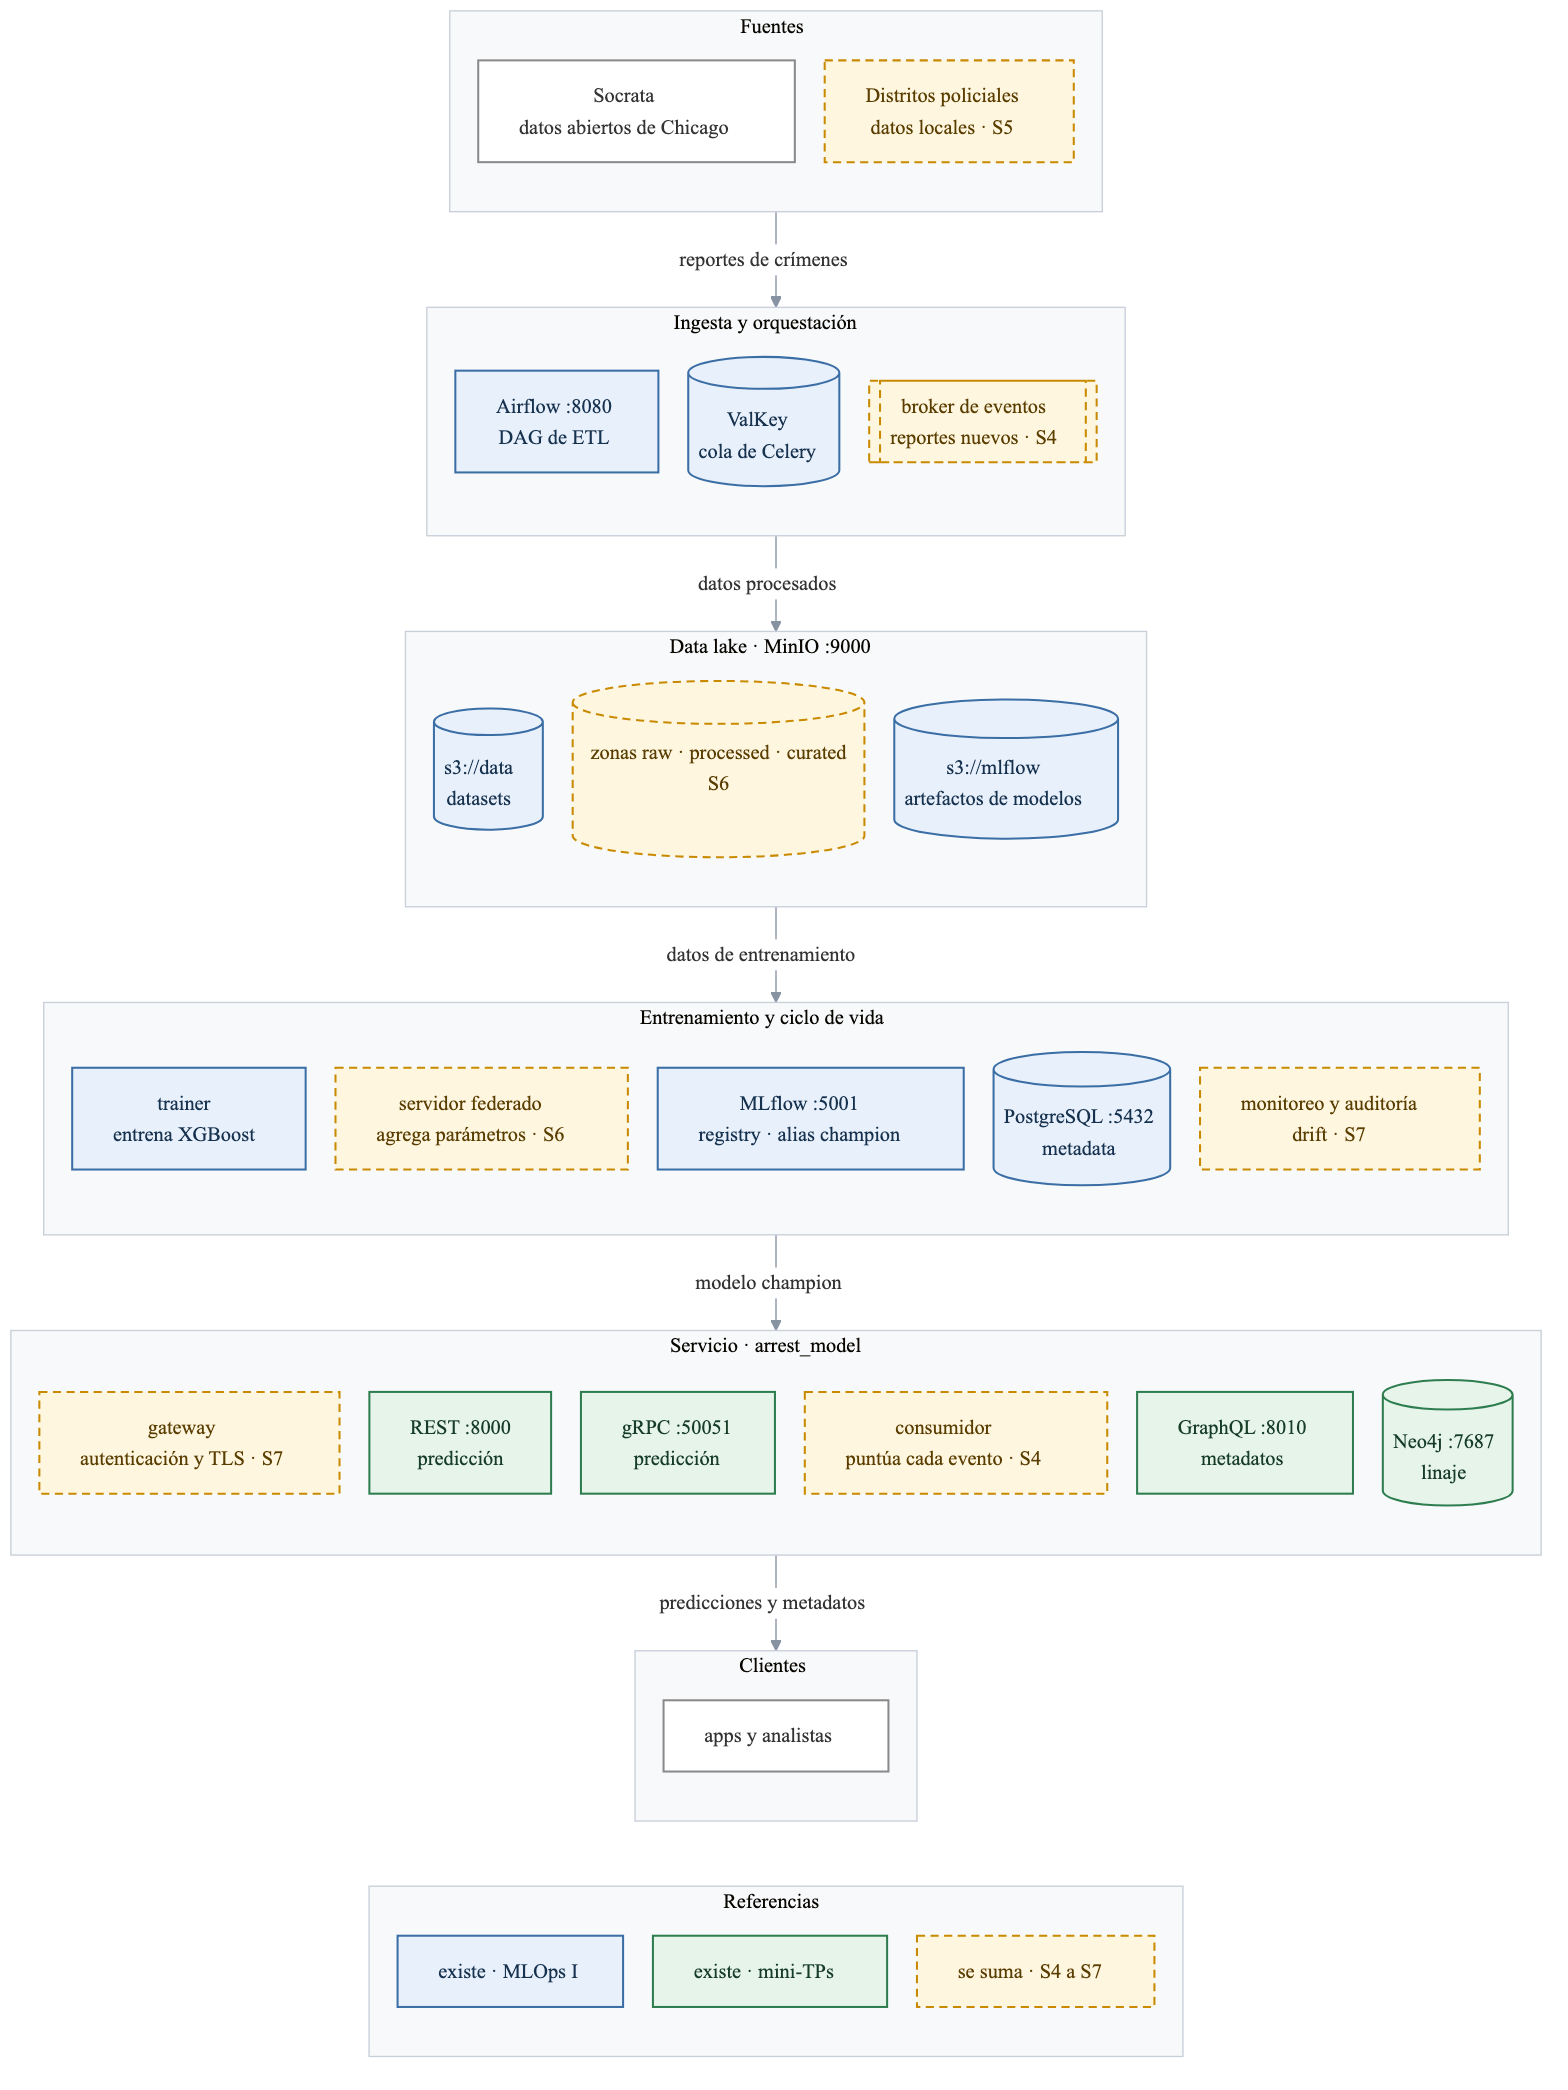
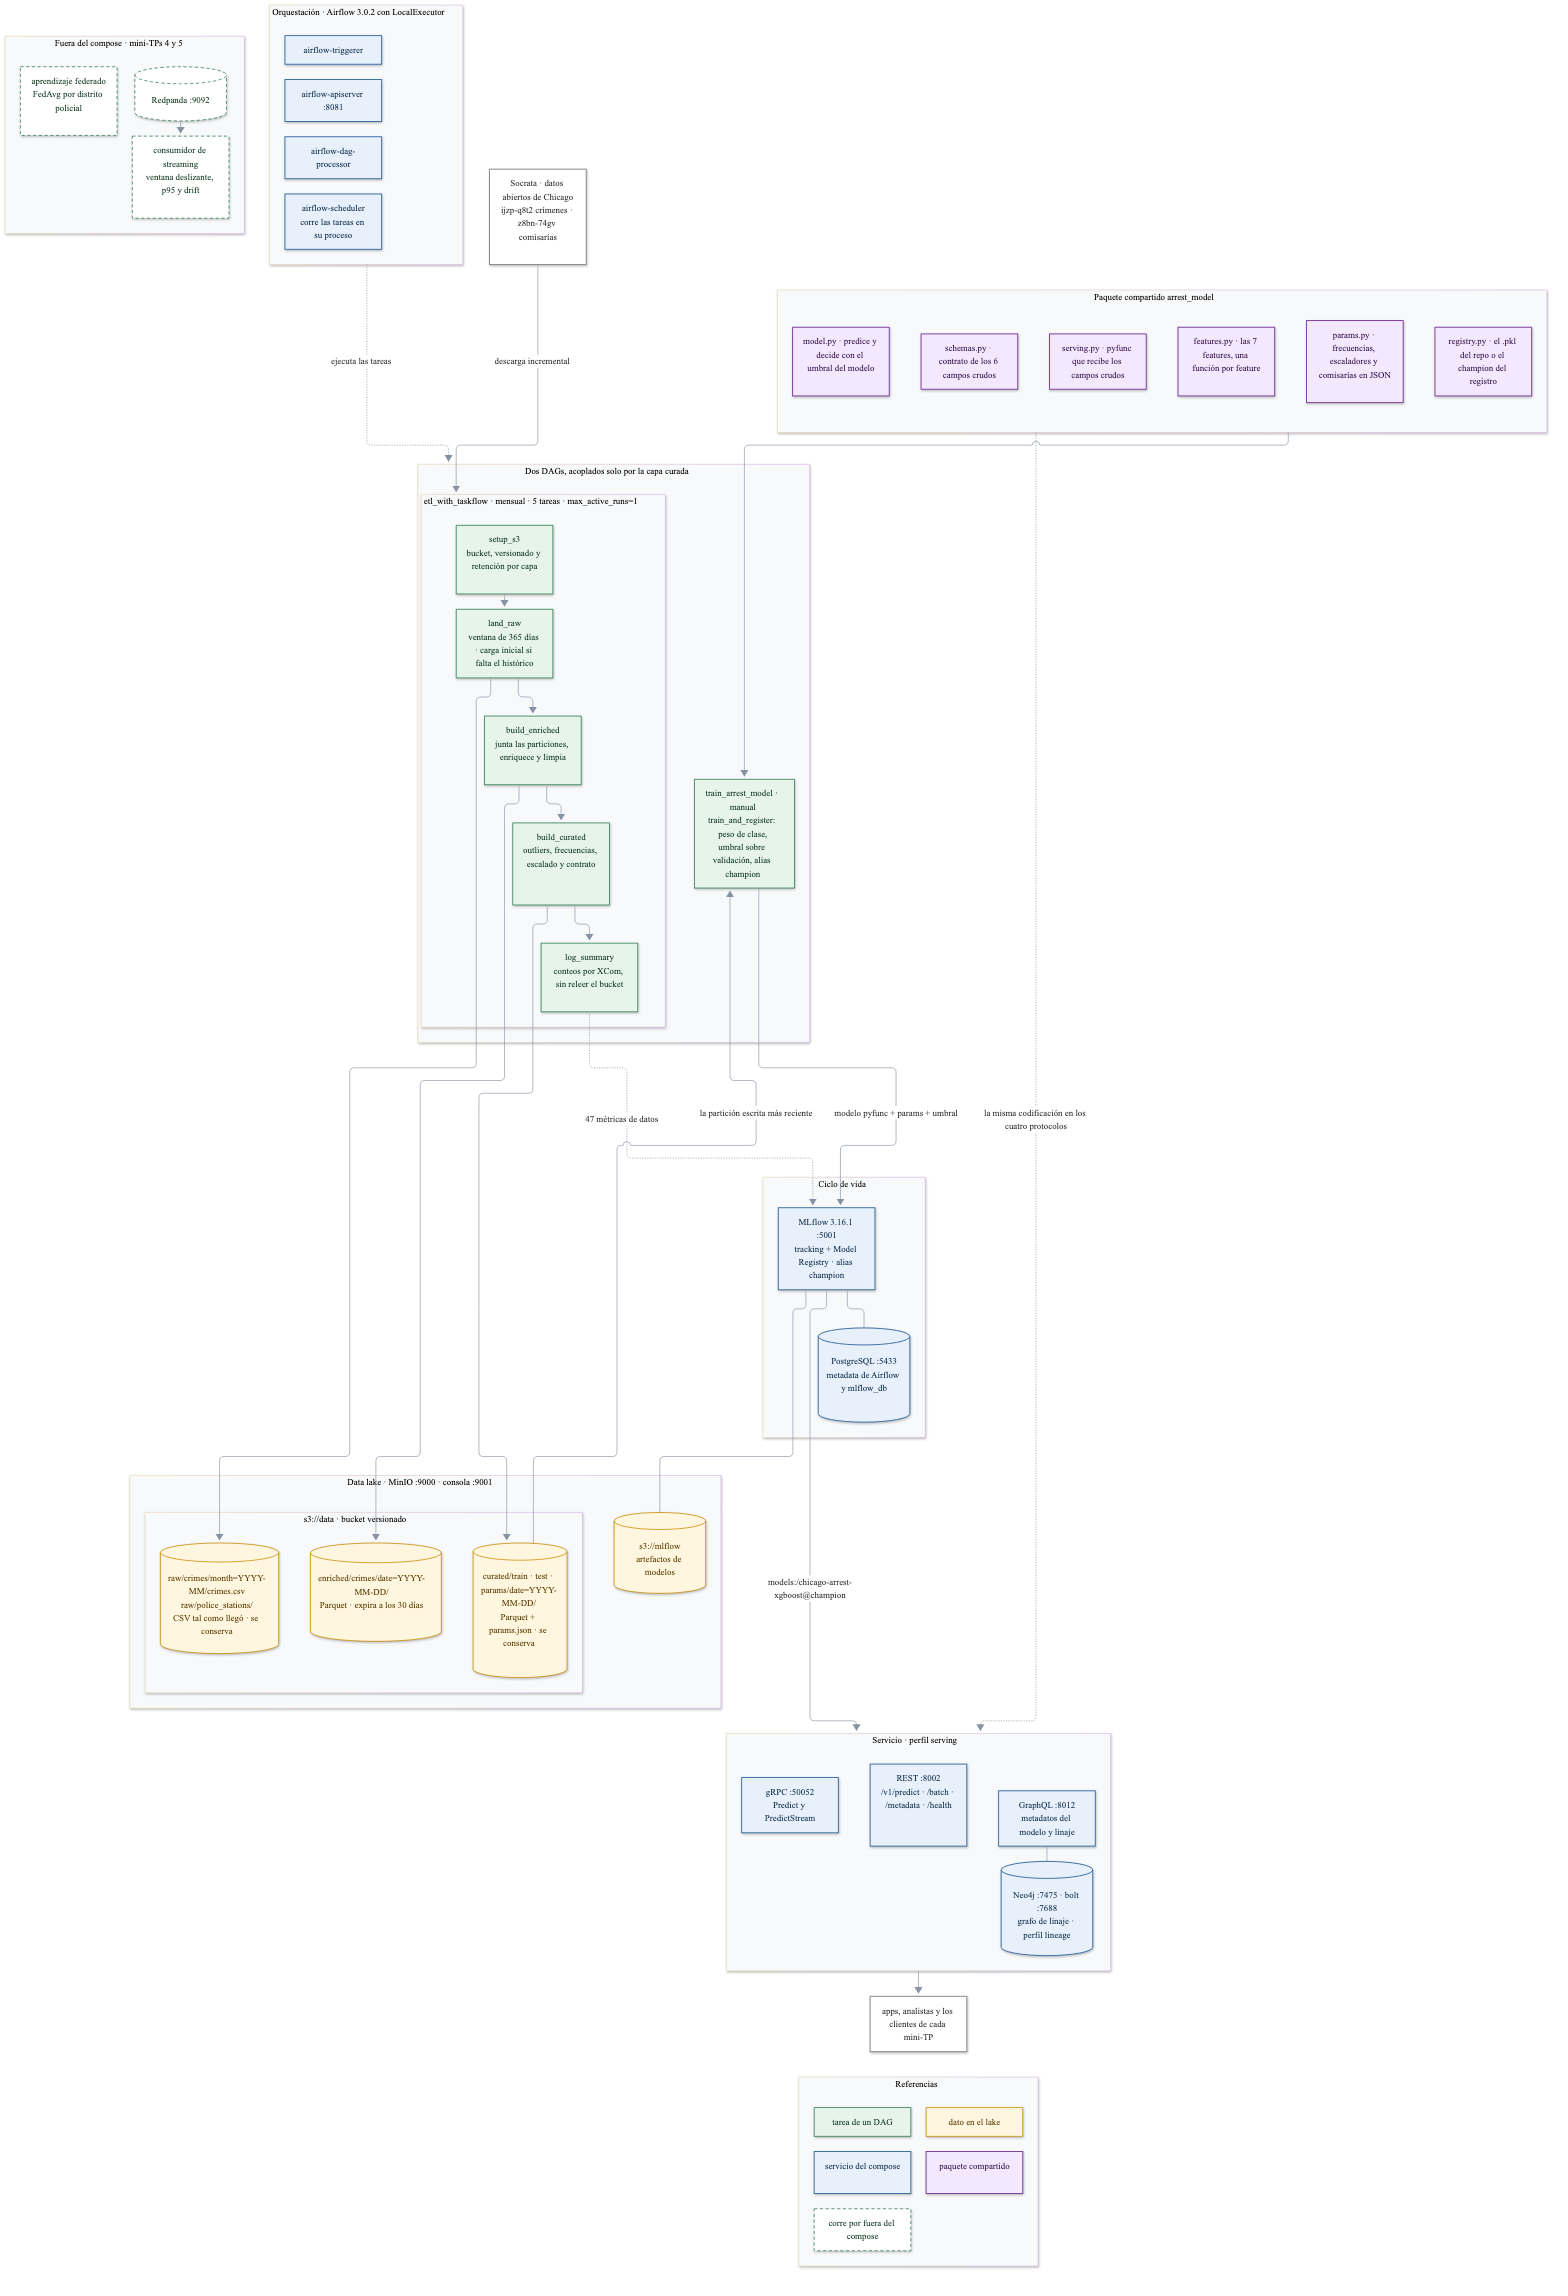
Agrega el diagrama de la arquitectura de MLOps I y actualiza el del integrador

diff --git a/docs/arquitectura.md b/docs/arquitectura.md
@@ -10,6 +10,29 @@ Se levanta con `make stack-up`; el detalle está en [cómo levantarla](plataform
 
 ![Arquitectura de la plataforma por capas](arquitectura.png)
 
+Los diagramas se generan desde `arquitectura.mmd` y `arquitectura-mlops1.mmd` con `make diagramas`.
+
+## De dónde se parte
+
+La infraestructura viene del TP final de MLOps I, y vale la pena ver las dos arquitecturas juntas porque la diferencia no está en la cantidad de servicios.
+
+![Arquitectura del TP final de MLOps I](arquitectura-mlops1.png)
+
+| | MLOps I | MLOps II |
+|---|---|---|
+| ejecutor de Airflow | Celery, con worker y ValKey de broker | LocalExecutor: las tareas corren en el proceso del scheduler |
+| el pipeline | un DAG de 11 tareas, una por etapa | un DAG de 5 tareas, una por capa |
+| lo que deja en el lake | el dataset entero entre paso y paso, en 9 prefijos numerados de `0-raw-data/` a `ml-ready-data/`: 13 objetos y 348,95 MB de CSV por corrida | tres capas con nombres de dominio y retención propia: 3 objetos y 10,42 MB de Parquet por corrida |
+| la ventana móvil | `merge_data` releía el último archivo mergeado y le concatenaba el mes nuevo | la determinan qué particiones mensuales caen en los últimos 365 días |
+| el entrenamiento | un servicio `trainer` aparte | un DAG propio, acoplado al ETL solo por la capa curada |
+| de dónde sale el modelo que se sirve | del artefacto que dejó el entrenamiento | del Model Registry, por el alias `champion` |
+| los parámetros de preprocesamiento | quedaban del lado del pipeline | viajan dentro del artefacto del modelo |
+| el umbral de decisión | un `0.5` escrito en el código | lo elige el entrenamiento sobre validación y viaja con el modelo |
+| protocolos de servicio | una API REST | REST, GraphQL con linaje en Neo4j, gRPC y un consumidor de streaming |
+| el resumen de la corrida | bajaba 7 datasets de S3 para contar filas | los conteos viajan por XCom |
+
+La diferencia de fondo es que en MLOps I el pipeline era una cadena de archivos, donde cada etapa dependía de que la anterior hubiera dejado el suyo en el lugar justo. Ahora es un contrato: el ETL publica una capa curada que cumple el contrato de features de `arrest_model`, y el entrenamiento la consume sin saber quién la escribió.
+
 ## Capas
 
 | capa | componentes | qué hace |
@@ -19,16 +42,17 @@ Se levanta con `make stack-up`; el detalle está en [cómo levantarla](plataform
 | Entrenamiento y ciclo de vida | Airflow, MLflow, PostgreSQL | el DAG `train_arrest_model` entrena sobre la capa curada y registra el modelo con el alias `champion` |
 | Servicio | REST, gRPC, GraphQL con Neo4j | predicciones y metadatos del modelo `champion`, que trae su propia codificación adentro y recibe los campos crudos |
 
-## Lo que se suma en cada sesión
+## Lo que aporta cada sesión
 
-Son propuestas que se ajustan con el material de cada sesión.
-
-| sesión | qué se suma | para qué |
+| sesión | qué aporta | dónde está |
 |---|---|---|
-| S4 · Streaming | un broker de eventos y un consumidor que puntúa cada reporte nuevo al llegar (Kafka, Redpanda o Redis Streams) | predecir cada reporte apenas se publica, sin esperar a que alguien consulte una API |
-| S5 · Aprendizaje federado | entrenamiento por distrito policial, con un servidor que agrega solo los parámetros (Flower) | aprovechar los datos de todos los distritos sin que salgan de cada uno |
-| S6 · Nube y data lake | capas raw, enriched y curated en el data lake (MinIO o S3) | saber de qué datos salió cada modelo y poder reprocesar desde los datos crudos |
-| S7 · Seguridad y gobernanza | gateway con autenticación, TLS en gRPC, monitoreo de drift y auditoría | que solo usen las APIs quienes están autorizados, que el tráfico viaje cifrado y detectar cuando el modelo pierde precisión porque cambian los datos |
+| S1 · APIs REST | contratos con Pydantic, versionado de API y de modelo, códigos de estado | `tp1_rest`, y en la plataforma sirviendo el champion del registro |
+| S2 · GraphQL y linaje | el tipo `Model` con sus métricas y el grafo dato → feature → modelo en Neo4j | `tp2_graphql`, con Neo4j en el perfil `lineage` del compose |
+| S3 · gRPC | el `.proto` como contrato tipado, stubs generados, el modelo cargado una sola vez | `tp3_grpc`, unary y server-streaming |
+| S4 · Streaming | un flujo de eventos y un consumidor que puntúa cada reporte al llegar, con ventana deslizante y alerta de drift | `tp4_streaming`, por fuera del compose |
+| S5 · Aprendizaje federado | FedAvg por distrito policial, datos non-IID y el costo del ruido de privacidad | `tp5_federated`, por fuera del compose |
+| S6 · Nube y data lake | las zonas del lake, Parquet en lo curado y MinIO como lake S3 | las tres capas de `s3://data`, con retención por capa y el bucket versionado |
+| S7 · Seguridad y gobernanza | pendiente: el material de la sesión no está publicado | lo que ya hay: secretos solo en `.env`, bucket versionado con retención, y el grafo de linaje para trazabilidad |
 
 ## Hoja de ruta
 
